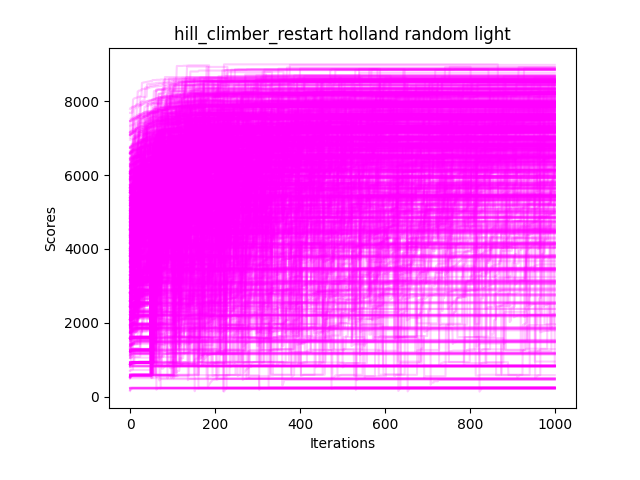
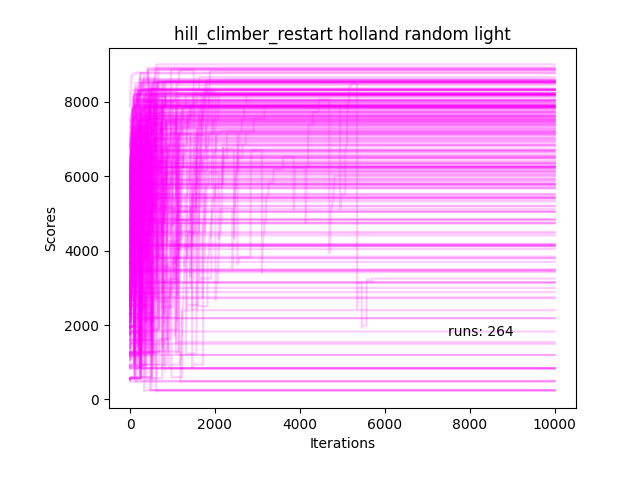
visualisation

diff --git a/code/visualisation/experiment_visualisation_functions.py b/code/visualisation/experiment_visualisation_functions.py
@@ -1,9 +1,9 @@
 from results import *
 from statistics import make_line_diagram_multiple_lines, make_histogram
 
-def lines_onegrid_short_experiments(results_dict: dict, export_file_path: str, title_diagram: str, start: str, mutation: str):
+def lines_onegrid_short_experiments(results_dict: dict, export_file_path: str, title_diagram: str, start: str, mutation: str) -> None:
     """
-    makes line diagram with multiple lines for one grid
+    makes line diagram with multiple lines for one grid for the experiments with the csv files with a line for every iteration
 
     pre:
         results_dict is a dictionary with dictionaries for every iteration
@@ -34,76 +34,154 @@ def lines_onegrid_short_experiments(results_dict: dict, export_file_path: str, t
 
     make_line_diagram_multiple_lines(scores_lists, title_diagram, export_file_path, False)
 
-def lines_comparison_short_experiments(results_dict: dict, export_file_path: str, title_diagram: str):
+def lines_comparison_short_experiments(results_dict: dict, export_file_path: str, title_diagram: str) -> None:
     """
+    plots the best line for every grid for the experiments with the csv files with a line for every iteration
 
+    pre:
+        results_dict is a dictionary with dictionaries for every iteration
+        export_file_path, title_diagram are strings
+
+    post:
+        a line diagram with several lines is created
     
     """
+    # create an empty list to collect all the lists with scores
     best_scores_lists = []
-    start_parameters = ['valid', 'random']
-    mutation_parameters = ['light', 'heavy']
     
-    for start in start_parameters:
+    # get the results for every grid
+    for start in ['valid', 'random']:
         filtered_results_start = filter_states(results_dict, 'start', start)
-        for mutation in mutation_parameters:
+        for mutation in ['light', 'heavy']:
             filtered_results = filter_states(filtered_results_start, 'mutation', mutation)
+            
+            # sort the results based on score
             sorted_results = dict(sorted(filtered_results.items(), key=lambda x: float(x[1]['score']), reverse=True))
+            
+            # get the scores for the best run
             key_run = list(sorted_results.keys())[0]
-            run =  str(filtered_results[key_run]['run_id'])
+            run = str(filtered_results[key_run]['run_id'])
             run_results = filter_states(filtered_results, 'run_id', run)
             scores_run = all_scores(run_results)
+
+            # add the scores to the list with scores
             best_scores_lists.append(scores_run)
-            
+
+    # plot diagram      
     make_line_diagram_multiple_lines(best_scores_lists, title_diagram, export_file_path, True)
 
-def lines_comparison_long_experiments_hc(results_dict: dict, export_file_path: str, title_diagram: str, case_name: str):
+def lines_comparison_long_experiments_hc(results_dict: dict, export_file_path: str, title_diagram: str, case_name: str) -> None:
+    """
+    plots the best line for every grid for the experiments with the csv files with more runs
+
+    pre:
+        results_dict is a dictionary with dictionaries for every iteration
+        export_file_path, title_diagram are strings
+
+    post:
+        a line diagram with several lines is created
+    
+    """
+    # create an empty list to collect all lists with the scores
     best_scores_lists = []
+
+    # create an empty list to collect the legens values
     legend = []
+
+    # get the right parameters for every case
     if case_name == 'holland':
         start_parameters = ['valid', 'random']
     else:
         start_parameters = ['random']
     
+    # filter the results for the right grid
     for start in start_parameters:
         filtered_results_start = filter_states(results_dict, 'start', start)
         for mutation in ['light', 'heavy']:
             filtered_results = filter_states(filtered_results_start, 'mutation', mutation)
+
+            # sort results
             sorted_results = dict(sorted(filtered_results.items(), key=lambda x: float(x[1]['score']), reverse=True))
+
+            # get results of the best run
             key_run = list(sorted_results.keys())[0]
             best_scores = str_to_list(filtered_results[key_run]['score_list'])
             best_scores_lists.append(best_scores)
-            legend.append(f"{start}, {mutation}")
-            
-    make_line_diagram_multiple_lines(best_scores_lists, title_diagram, export_file_path, True, legend)
 
-def lines_comparison_long_experiments_ppa(results_dict: dict, export_file_path: str, title_diagram: str, case_name: str):
+            # save legend values
+            legend.append(f"{start}, {mutation}")
+
+    # plot diagram       
+    make_line_diagram_multiple_lines(best_scores_lists, title_diagram, export_file_path, True, None, legend)
+
+def lines_comparison_long_experiments_ppa(results_dict: dict, export_file_path: str, title_diagram: str, case_name: str) -> None:
+    """
+    plots the best line for every grid for the experiments with the csv files with more runs
+
+    pre:
+        results_dict is a dictionary with dictionaries for every iteration
+        export_file_path, title_diagram are strings
+
+    post:
+        a line diagram with several lines is created
+    
+    """
+    
+    # create an empty list to collect all lists with the scores
     best_scores_lists = []
+
+    # create an empty list to collect the legens values
     legend = []
+
+    # get the right parameters for every case
     if case_name == 'holland':
         population_sizes = [6, 12, 30]
         generation_counters = [10, 50, 100]
         max_runners = [3, 7, 15]
     elif case_name == 'netherlands':
-        pass
+        population_sizes = [12, 30]
+        generation_counters = 200
+        max_runners = [3, 15]
     
+    # filter the results for the right grid
     for population_size in population_sizes:
         filtered_results_population = filter_states(results_dict, 'population_size', str(population_size))
         for generation_count in generation_counters:
             filtered_results_generation = filter_states(filtered_results_population, 'generation_count', str(generation_count))
             for max_runner in max_runners:
                 filtered_results = filter_states(filtered_results_generation, 'max_runners', str(max_runner))
+                
+                # sort results
                 sorted_results = dict(sorted(filtered_results.items(), key=lambda x: float(x[1]['score']), reverse=True))
+
+                 # get results of the best run
                 key_run = list(sorted_results.keys())[0]
                 best_scores = str_to_list(filtered_results[key_run]['score_list'])
                 best_scores_lists.append(best_scores)
+
+                # save legend values
                 legend.append(f"Population-size:{population_size}, generation-count:{generation_count}, max-runners:{max_runner}")
-            
+
+    # plot diagram    
     make_line_diagram_multiple_lines(best_scores_lists, title_diagram, export_file_path, True, legend)
 
 def onegrid_hc(results_dict: dict, export_file_path: str, title_diagram: str, start: str, mutation: str, plot: str) -> None:
+    """
+    filters the results for the right grid for the hillclimber and annealing experiments
+
+    pre:
+        results_dict is a dictionary with dictionaries for every iteration
+        export_file_path, title_diagram, start, mutation and plot are strings
+    
+    post:
+        gives the results to a function to make the plot
+
+    """
+    # filter results
     filtered_results_start = filter_states(results_dict, 'start', start)
     filtered_results_mutation = filter_states(filtered_results_start, 'mutation', mutation)
     
+    # plot the right plot
     if plot == 'histogram':
         histogram_onegrid(results_dict, filtered_results_mutation, title_diagram, export_file_path)
     elif plot == 'linediagram':
@@ -111,37 +189,84 @@ def onegrid_hc(results_dict: dict, export_file_path: str, title_diagram: str, st
 
 
 def onegrid_ppa(results_dict: dict, export_file_path: str, title_diagram: str, population_size: int, generation_count: int, max_runners: int, plot: str) -> None:
+    """
+    filters the results for the right grid for the ppa experiments
+
+    pre:
+        results_dict is a dictionary with dictionaries for every iteration
+        export_file_path, title_diagram, start, mutation and plot are strings
+    
+    post:
+        gives the results to the function to make a plot
+
+    """
+    
+    # filter the results
     filtered_results_population_size = filter_states(results_dict, 'population_size', str(population_size))
     filtered_results_generation = filter_states(filtered_results_population_size, 'generation_count', str(generation_count))
     filtered_results = filter_states(filtered_results_generation, 'max_runners', str(max_runners))
 
+    # plot the right plot
     if plot == 'histogram':
         histogram_onegrid(results_dict, filtered_results, title_diagram, export_file_path)
     elif plot == 'linediagram':
         lines_onegrid_long_experiments(filtered_results, export_file_path, title_diagram, 'Generations')
     
 def histogram_onegrid(results_dict: dict, filtered_results: dict, title_diagram: str, export_file_path: str) -> None:
+    """
+    makes histogram for a certain grid
+
+    pre:
+        results_dict and filtered_results are dictionaries with dictionaries for every iteration
+        export_file_path and title_diagram are strings
+    
+    post:
+        plots a histogram
+
+    """
+    
+    # create empty list for all score-lists
     end_scores_list = []
     
+    # get the first and last run id
     key_first_run = list(filtered_results.keys())[0]
     first_run = filtered_results[key_first_run]['run_id']
 
     key_last_run = list(filtered_results.keys())[-1]
     last_run = filtered_results[key_last_run]['run_id']
 
+    runs = int(key_last_run) - int(key_first_run)
+
+    # save the endscores of every run in the grid
     for run in range(int(first_run), int(last_run) + 1):
         filtered_results_run = filter_states(results_dict, 'run_id', str(run))
         scores_run = all_scores(filtered_results_run)
         end_scores_list.append(scores_run[-1])
 
-    make_histogram(end_scores_list, title_diagram, export_file_path)
+    # plot histogram
+    make_histogram(end_scores_list, title_diagram, export_file_path, f'runs: {runs}')
 
 def lines_onegrid_long_experiments(filtered_results: dict, export_file_path: str, title_diagram: str, xlabel: str = 'Iterations'):
-    scores_lists = []
-    score_list_subtract = []
-    for run in filtered_results.values():
-        score_list = str_to_list(run['score_list'])[len(score_list_subtract)::]
-        scores_lists.append(score_list)
-        score_list_subtract = str_to_list(run['score_list'])
+    """
+    makes linediagram for a certain grid with lines for every run
+
+    pre:
+        results_dict and filtered_results are dictionaries with dictionaries for every iteration
+        export_file_path and title_diagram are strings
     
-    make_line_diagram_multiple_lines(scores_lists, title_diagram, export_file_path, False, None, xlabel)
+    post:
+        plots a linediagram
+
+    """
+    # create empty for every score list
+    scores_lists = []
+    runs = 0
+    
+    # collect all scores for grid
+    for run in filtered_results.values():
+        score_list = str_to_list(run['score_list'])
+        scores_lists.append(score_list)
+        runs += 1
+    
+    # plot diagram
+    make_line_diagram_multiple_lines(scores_lists, title_diagram, export_file_path, False, f'runs: {runs}', None, xlabel)

diff --git a/code/visualisation/visualisation_experiments_script.py b/code/visualisation/visualisation_experiments_script.py
@@ -1,7 +1,20 @@
 from experiment_visualisation_functions import onegrid_hc, lines_comparison_long_experiments_hc, lines_comparison_long_experiments_ppa, onegrid_ppa
 from results import read_csv
+import sys
+import csv
+csv.field_size_limit(sys.maxsize)
 
 def make_plots_annealing():
+    """
+    makes all the plots for the annealing experiments
+
+    pre:
+        all the experiments are saved in a csv in a certain format
+
+    post:
+        created and saved all plots
+    """
+    # set right parameters 
     for case_name in ['holland', 'netherlands']:
         if case_name == 'holland':
             starts = ['valid', 'random']
@@ -10,7 +23,7 @@ def make_plots_annealing():
         for temperature in [100, 200, 500]:
             for cooling_scheme in ['exponential', 'logaritmic', 'lineair']:
                 results_dict = read_csv(f"../../data/annealing/experiment_annealing_grid_search_{case_name}_{cooling_scheme}_{temperature}.csv", 'run_id')
-                lines_comparison_long_experiments_hc(results_dict, f"../../docs/graphs/annealing/annealing_{temperature}_{cooling_scheme}_{case_name}", f"annealing {temperature} {cooling_scheme}")
+                lines_comparison_long_experiments_hc(results_dict, f"../../docs/graphs/annealing/annealing_{temperature}_{cooling_scheme}_{case_name}", f"annealing {temperature} {cooling_scheme}", case_name)
                 for start in starts:
                     for mutation in ["light", "heavy"]:
                         onegrid_hc(results_dict, f"../../docs/graphs/annealing/line_annealing_{case_name}_{cooling_scheme}_{temperature}_{start}_{mutation}", f"Annealing {case_name} {cooling_scheme} {temperature} {start} {mutation}", start, mutation, 'linediagram')
@@ -21,7 +34,7 @@ def make_plots_hill_climber():
         for case_name in ['holland', 'netherlands']:
             if case_name == 'holland':
                 starts = ['valid', 'random']
-            else:
+            elif case_name == 'netherlands':
                 starts = ['random']
             results_dict = read_csv(f"../../data/{algorithm}/experiment_{algorithm}_grid_search_{case_name}.csv", 'run_id')
             lines_comparison_long_experiments_hc(results_dict, f"../../docs/graphs/{algorithm}/{algorithm}_{case_name}", f"{algorithm}", case_name)
@@ -41,5 +54,6 @@ def make_plots_ppa(case_name: str, starting_states: str, filter_method: str):
                 onegrid_ppa(results_dict, f"../../docs/graphs/ppa/histo_{case_name}_{starting_states}_{filter_method}_{population_size}_{generation_count}_{max_runners}", f"ppa {case_name} {starting_states} {filter_method} {population_size} {generation_count} {max_runners}", population_size, generation_count, max_runners, 'histogram')
 
 if __name__ == "__main__":
-    #make_plots_hill_climber()
-    make_plots_ppa('holland', 'hill_climber', 'sequential')
+    make_plots_hill_climber()
+    make_plots_annealing()
+    #make_plots_ppa('holland', 'hill_climber', 'sequential')

diff --git a/code/visualisation/statistics.py b/code/visualisation/statistics.py
@@ -6,7 +6,7 @@ import statistics
 
 from results import read_csv, filter_states, all_scores, export_states
 
-def make_histogram(values: list, title_histogram: str, filepath: str) -> None:
+def make_histogram(values: list, title_histogram: str, filepath: str, text: str = None) -> None:
     """
     creates and saves a histogram with normal distribution line with the given values
 
@@ -18,6 +18,8 @@ def make_histogram(values: list, title_histogram: str, filepath: str) -> None:
         a png file is saved with a histogram
     """
     plt.clf()
+
+    title_list = list(title_histogram.split(" "))
 
     # make the histogram
     plt.hist(values, bins=50, density=True, edgecolor='black', color='#000066')
@@ -33,7 +35,13 @@ def make_histogram(values: list, title_histogram: str, filepath: str) -> None:
     plt.title(title_histogram)
     plt.xlabel("scores", labelpad=10)
     plt.ylabel("relative frequency", labelpad=10)
-    plt.xlim(4000, 9200)
+    if 'netherlands' in title_list:
+        plt.xlim(0, 9300)
+        #plt.text(4100, 0.0045, text, fontsize = 10)
+    elif 'holland' in title_list:
+        plt.xlim(7000, 9300)
+        #plt.text(7100, 0.0045, text, fontsize = 10)
+    plt.annotate(text, xy=(0.3, 0.7), fontsize = 10, xycoords='figure fraction')
     plt.ylim(0, 0.005)
     plt.subplots_adjust(left=0.17, right=0.9, top=0.9, bottom=0.15)
     plt.savefig(
@@ -100,7 +108,7 @@ def make_line_diagram(scores: list, title_diagram: str, filepath: str) -> None:
     plt.savefig(
         f'{filepath}.png')
     
-def make_line_diagram_multiple_lines(scores: list[list], title_diagram: str, filepath: str, comparison: bool, legend: list[str] = None, xlabel: str = 'Iterations') -> None:
+def make_line_diagram_multiple_lines(scores: list[list], title_diagram: str, filepath: str, comparison: bool, text: str = None, legend: list[str] = None, xlabel: str = 'Iterations') -> None:
     """
     makes a line diagram with multiple lines of the scores against the iterations
 
@@ -113,7 +121,6 @@ def make_line_diagram_multiple_lines(scores: list[list], title_diagram: str, fil
         saves a png file with the line diagram
     """
     plt.clf()
-    
     for i in range(len(scores)):
         x = list(range(len(scores[i])))
         if not comparison:
@@ -125,6 +132,8 @@ def make_line_diagram_multiple_lines(scores: list[list], title_diagram: str, fil
     plt.xlabel(xlabel)
     plt.ylabel("Scores")
     plt.title(f"{title_diagram}")
+
+    plt.annotate(text, xy=(0.7, 0.3), fontsize = 10, xycoords='figure fraction')
     plt.savefig(
         f'{filepath}.png')
     

diff --git a/code/visualisation/results.py b/code/visualisation/results.py
@@ -29,7 +29,7 @@ def read_csv(csv_filepath: str, id_name: str) -> dict:
     """
     # make dictionary for saving the states
     states_dict: dict = {}
-
+    
     # add every row to the dictionary with state id as key
     with open(csv_filepath) as states:
         csv_reader = csv.DictReader(states)
